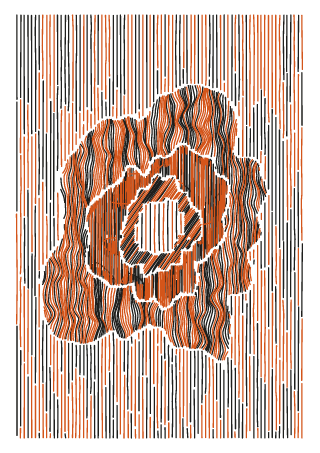
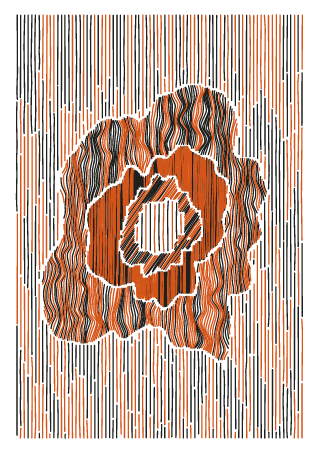
Lapidary: rework mottle as an interleaved-grating beat
The blob-based mottle read as cow print and looked nothing like the
noise-texture module it was meant to echo. Rebuilt on that module's
actual mechanism (generateOverlappedLines): a straight hatch family plus
a second family at the same pitch, phase-shifted half a gap, whose
perpendicular offset rides one low-frequency fBm field — lines weave
between stacked (paper shows through) and spread (even dark fill), giving
soft cloudy mottling with no discrete shapes. Patchiness is the beat
amplitude; blobOutlines and the iso-contour walls are gone.

Two registration fixes the beat depends on: the straight family drops
emitStroke's per-line angle jitter (a band-long line swings past a whole
pitch at the crossing, scrambling the interleave), and the second
family's offset is computed exactly — hatchPolygon scans from each
polygon's own min-extent and maps phase through 0.3+0.7p, so a naive
phase+0.5 never sat half a pitch off.

The patchiness property test now measures the stacked-pair share of
scanline gaps: crowding redistributes ink without changing ink-per-area,
so area metrics are blind to the beat.

Claude-Session: https://claude.ai/code/session_01BrHsHyx49yJZL9bnMQcf89

diff --git a/packages/core/src/lapidary/textures.ts b/packages/core/src/lapidary/textures.ts
@@ -1,6 +1,5 @@
 import { FlowLine, Point } from '../flow-lines.js';
 import { hatchPolygon } from '../hearts/heart.js';
-import { traceIsoContours } from '../iso-contours.js';
 import { emitStroke, Craft } from '../landscape/hatching.js';
 import { pointInPolygon } from '../lib/polyline.js';
 import { createNoise } from '../noise.js';
@@ -398,88 +397,88 @@ export function fillRegion(region: Region): RegionFill {
     }
 
     case 'mottle': {
-      // Two-tone blob pattern (the reference's leopard/wood-grain ring): a
-      // low-frequency field deals organic blobs, and a second half-pitch
-      // hatch family fills only their interiors — two committed density
-      // levels, where the patchy gate only removes ink below one. The gate
-      // and the wall raster share one noise instance so the drawn cell
-      // walls sit exactly on the density boundary. Per-blob pen splitting
-      // would need RegionFill to carry sub-tags through the carve — pens
-      // stay a downstream per-region/interleave decision.
+      // Interleaved-grating beat (the noise-texture module's mark,
+      // generateOverlappedLines): a straight family plus a second family at
+      // the SAME pitch, phase-shifted half a gap, whose perpendicular offset
+      // rides one low-frequency fBm field. Where the offset carries it onto
+      // the straight family the pair stacks and paper shows through; where
+      // it sits between, the fill closes to an even half-pitch grating —
+      // soft cloudy mottling from line crowding, no discrete shapes.
+      // Patchiness is the beat amplitude.
       const mottleNoise = createNoise(subSeed(t.seed, 2));
-      // Blob cells stay hand-sized even at tight pitch (the patchScale
-      // idiom, but larger — leopard patches, not flecks); patchiness is
-      // the blob coverage knob.
-      const blobScale = Math.max(40, t.spacing * 16);
-      const blobCut = 0.8 - t.patchiness * 1.3;
-      const inBlob = (x: number, y: number): boolean =>
-        mottleNoise.noise2D(x / blobScale, y / blobScale) > blobCut;
-
+      // The module's tuned ratios: cloud wavelength ~16 pitches, deviation
+      // swinging past a full pitch at the top of the knob so the beat
+      // crosses coincidence rather than only approaching it.
+      const lambda = Math.max(40, t.spacing * 16);
+      const amp = t.spacing * (0.35 + 0.9 * t.patchiness);
+      const minKeep = t.spacing * 0.8;
+      // The straight family keeps exact registration: emitStroke's per-line
+      // angle jitter swings a band-long line by more than the pitch at the
+      // crossing, which scrambles the interleave the beat plays against.
+      const straightCraft: Craft = { rng, taper: 0.45, jitter: 0, subStep: step };
       for (const run of hatchPolygon(poly, t.angleRad, t.spacing, t.phase)) {
-        emitTapered(run[0], run[1]);
+        if (ink.length >= REGION_LINE_CAP) break;
+        emitStroke(ink, run[0], run[1], '', straightCraft);
       }
-      // Infill lands exactly between the base lines. edgeBand 0 — unlike
-      // patchy, blob ink must not smear onto the silhouette seam.
-      const minLen = t.spacing * 1.5;
-      for (const run of hatchPolygon(poly, t.angleRad, t.spacing, (t.phase + 0.5) % 1)) {
-        gatedRun(run[0], run[1], Math.min(8, blobScale / 4), inBlob, minLen, 0, emitTapered);
+      // Second family: the wavy deform-then-clip idiom, displaced by the
+      // shared field so neighbouring lines crowd coherently.
+      let bx0 = Infinity;
+      let by0 = Infinity;
+      let bx1 = -Infinity;
+      let by1 = -Infinity;
+      for (const p of poly) {
+        if (p.x < bx0) bx0 = p.x;
+        if (p.y < by0) by0 = p.y;
+        if (p.x > bx1) bx1 = p.x;
+        if (p.y > by1) by1 = p.y;
       }
-
-      if (t.blobOutlines) {
-        let bx0 = Infinity;
-        let by0 = Infinity;
-        let bx1 = -Infinity;
-        let by1 = -Infinity;
-        for (const p of poly) {
-          if (p.x < bx0) bx0 = p.x;
-          if (p.y < by0) by0 = p.y;
-          if (p.x > bx1) bx1 = p.x;
-          if (p.y > by1) by1 = p.y;
-        }
-        const cellPx = Math.max(3, blobScale / 8);
-        const gw = Math.max(2, Math.ceil((bx1 - bx0) / cellPx) + 3);
-        const gh = Math.max(2, Math.ceil((by1 - by0) / cellPx) + 3);
-        const data = new Float32Array(gw * gh);
-        for (let gy = 0; gy < gh; gy++) {
-          for (let gx = 0; gx < gw; gx++) {
-            const x = bx0 + (gx - 1) * cellPx;
-            const y = by0 + (gy - 1) * cellPx;
-            data[gy * gw + gx] = mottleNoise.noise2D(x / blobScale, y / blobScale);
-          }
-        }
-        const minKeep = t.spacing * 4;
-        for (const loop of traceIsoContours({ width: gw, height: gh, data }, blobCut)) {
-          const pts = loop.map((p) => ({
-            x: bx0 + (p.x - 1) * cellPx,
-            y: by0 + (p.y - 1) * cellPx,
-          }));
-          const wholeLoop =
-            pts.length >= 4 &&
-            Math.hypot(pts[0].x - pts[pts.length - 1].x, pts[0].y - pts[pts.length - 1].y) < 1e-6;
-          let kept: Point[] = [];
-          let clipped = false;
-          const flush = (): void => {
-            if (kept.length >= 2) {
-              let l = 0;
-              for (let i = 1; i < kept.length; i++) {
-                l += Math.hypot(kept[i].x - kept[i - 1].x, kept[i].y - kept[i - 1].y);
-              }
-              // Confetti guard: wall fragments shorter than a few pitches
-              // read as stray ticks, not cell walls.
-              if (l >= minKeep) dashPolyline(kept, wholeLoop && !clipped);
+      const box: Point[] = [
+        { x: bx0, y: by0 },
+        { x: bx1, y: by0 },
+        { x: bx1, y: by1 },
+        { x: bx0, y: by1 },
+      ];
+      // Register the second family exactly half a pitch off the first:
+      // hatchPolygon scans from each polygon's own min-extent (and maps
+      // phase through 0.3+0.7·p), so the box family's raw offset against
+      // the poly family is arbitrary — fold the exact correction into the
+      // perpendicular displacement instead.
+      const scanNx = -Math.sin(t.angleRad);
+      const scanNy = Math.cos(t.angleRad);
+      const minOver = (pts: Point[]): number => {
+        let m = Infinity;
+        for (const p of pts) m = Math.min(m, p.x * scanNx + p.y * scanNy);
+        return m;
+      };
+      const firstA = minOver(poly) + t.spacing * (0.3 + 0.7 * t.phase);
+      const firstB = minOver(box) + t.spacing * 0.3;
+      const register =
+        ((((firstA + t.spacing / 2 - firstB) % t.spacing) + t.spacing) % t.spacing);
+      for (const run of hatchPolygon(box, t.angleRad, t.spacing, 0)) {
+        const base = densify(run[0], run[1], fineStep);
+        const dx = run[1].x - run[0].x;
+        const dy = run[1].y - run[0].y;
+        const len = Math.hypot(dx, dy) || 1;
+        const nx = -dy / len;
+        const ny = dx / len;
+        let kept: Point[] = [];
+        const flush = (): void => {
+          if (kept.length >= 2) {
+            let l = 0;
+            for (let i = 1; i < kept.length; i++) {
+              l += Math.hypot(kept[i].x - kept[i - 1].x, kept[i].y - kept[i - 1].y);
             }
-            kept = [];
-          };
-          for (const q of pts) {
-            if (pointInPolygon(poly, q.x, q.y)) {
-              kept.push(q);
-            } else {
-              clipped = true;
-              flush();
-            }
+            if (l >= minKeep) push(ink, kept);
           }
-          flush();
+          kept = [];
+        };
+        for (const p of base) {
+          const d = register + amp * mottleNoise.fbm(p.x / lambda, p.y / lambda, 2, 0.5, 2);
+          const q = { x: p.x + nx * d, y: p.y + ny * d };
+          if (pointInPolygon(poly, q.x, q.y)) kept.push(q);
+          else flush();
         }
+        flush();
       }
       break;
     }

diff --git a/packages/core/src/lapidary.test.ts b/packages/core/src/lapidary.test.ts
@@ -480,11 +480,11 @@ describe('generateLapidary', () => {
     }
   });
 
-  it('mottle lays a second density level over the plain hatch', () => {
-    // Pin both kinds to the same resolved pitch (mottle's 0.6 baseline vs
-    // hatch's 0.45): the blob infill and cell walls must add ink beyond the
-    // identical base family — the two-tone pattern is extra committed
-    // density, not the patchy gate's holes.
+  it('mottle lays a second line family over the plain hatch', () => {
+    // Pin both kinds to the same resolved pitch (mottle's 0.7 baseline vs
+    // hatch's 0.45): the beating second family must add ink beyond the
+    // identical straight family — mottle is crowding between two live
+    // gratings, not the patchy gate's holes.
     const totalLen = (textures: Parameters<typeof generateLapidary>[0]['textures']): number => {
       const r = generateLapidary({ ...BASE, textures, wobble: 0, optimize: false });
       let len = 0;
@@ -503,48 +503,48 @@ describe('generateLapidary', () => {
     expect(mottle).toBeGreaterThan(hatch * 1.1);
   });
 
-  it('mottle blob coverage rides the patchiness knob', () => {
-    const totalLen = (patchiness: number): number => {
+  it('mottle patchiness deepens the tonal clouds', () => {
+    // The beat amplitude is what patchiness buys: near zero the two
+    // families hold an almost even interleave, high amplitude slides one
+    // family across the other until lines stack. Crowding redistributes
+    // ink without changing ink-per-area, so the measurable signal is the
+    // share of near-zero gaps between successive scanline crossings
+    // (stacked pairs) — a full-page single mottle band keeps the lines
+    // exactly vertical.
+    const stackedShare = (patchiness: number): number => {
       const r = generateLapidary({
         ...BASE,
+        bands: 1,
         textures: ['mottle'],
         patchiness,
         wobble: 0,
         optimize: false,
       });
-      let len = 0;
-      for (const line of r.lines) {
-        for (let i = 1; i < line.points.length; i++) {
-          len += Math.hypot(
-            line.points[i].x - line.points[i - 1].x,
-            line.points[i].y - line.points[i - 1].y
-          );
+      const gaps: number[] = [];
+      for (const scanY of [120, 200, 280]) {
+        const xs: number[] = [];
+        for (const line of r.lines) {
+          for (let i = 1; i < line.points.length; i++) {
+            const a = line.points[i - 1];
+            const b = line.points[i];
+            if ((a.y - scanY) * (b.y - scanY) > 0) continue;
+            const f = Math.abs(b.y - a.y) < 1e-9 ? 0 : (scanY - a.y) / (b.y - a.y);
+            xs.push(a.x + (b.x - a.x) * f);
+          }
+        }
+        xs.sort((p, q) => p - q);
+        for (let i = 1; i < xs.length; i++) {
+          if (xs[i] > BASE.margin + 10 && xs[i] < BASE.width - BASE.margin - 10) {
+            gaps.push(xs[i] - xs[i - 1]);
+          }
         }
       }
-      return len;
+      const mean = gaps.reduce((a, b) => a + b, 0) / gaps.length;
+      return gaps.filter((g) => g < mean * 0.2).length / gaps.length;
     };
-    expect(totalLen(0.85)).toBeGreaterThan(totalLen(0.15) * 1.1);
-  });
-
-  it('blobOutlines: false drops the mottle cell walls', () => {
-    const base = { ...BASE, wobble: 0, optimize: false };
-    const walled = generateLapidary({ ...base, textures: [{ kind: 'mottle' as const }] });
-    const bare = generateLapidary({
-      ...base,
-      textures: [{ kind: 'mottle' as const, blobOutlines: false }],
-    });
-    expect(bare.lines.length).toBeGreaterThan(50);
-    expect(bare.lines.length).toBeLessThan(walled.lines.length);
-    for (const r of [walled, bare]) {
-      for (const line of r.lines) {
-        for (const p of line.points) {
-          expect(p.x).toBeGreaterThanOrEqual(0);
-          expect(p.x).toBeLessThanOrEqual(BASE.width);
-          expect(p.y).toBeGreaterThanOrEqual(0);
-          expect(p.y).toBeLessThanOrEqual(BASE.height);
-        }
-      }
-    }
+    const flat = stackedShare(0.05);
+    expect(flat).toBeLessThan(0.06);
+    expect(stackedShare(0.9)).toBeGreaterThan(flat * 2.5);
   });
 
   it('grain dashes stay short and comb along the band angle', () => {

diff --git a/packages/core/src/lapidary/layout.ts b/packages/core/src/lapidary/layout.ts
@@ -40,14 +40,10 @@ export interface BandTexture {
    *  undulation / grain bend). */
   waviness?: number;
   /** Per-band override of the global patchiness (patchy/cross hole amount;
-   *  mottle blob coverage). */
+   *  mottle grating-beat amplitude). */
   patchiness?: number;
   /** Per-band override of the sheet's shape language (agate/breccia). */
   shape?: LapidaryShape;
-  /** Trace the mottle blob boundaries as light dashed cell walls (mottle
-   *  only; default on — the walls are what turn two hatch densities into a
-   *  drawn pattern). */
-  blobOutlines?: boolean;
 }
 
 /** The tuning anchor: the A3 short edge at 3 px/mm. Feature sizes (seam
@@ -66,8 +62,6 @@ export interface ResolvedTexture {
   patchiness: number;
   /** Slides the hatch family so no two bands' lines register alike. */
   phase: number;
-  /** See `BandTexture.blobOutlines` (mottle only). */
-  blobOutlines: boolean;
   seed: number;
   /** sizingDim / TUNING_DIM — see `TUNING_DIM`. */
   featureScale: number;
@@ -141,10 +135,9 @@ const KIND_SPACING: Record<LapidaryTexture, number> = {
   patchy: 0.55,
   cross: 0.95,
   stipple: 1.3,
-  // Base family airier than patchy — the half-pitch blob infill doubles
-  // interior density to an effective 0.35, darker than plain hatch. The
-  // gap matters: at tight pitches both levels saturate and the two-tone
-  // drowns.
+  // Two same-pitch families: the fill swings between an effective 0.35
+  // (even interleave) and 0.7 (families stacked) as the beat crowds the
+  // lines — airier than patchy so the light clouds actually show paper.
   mottle: 0.7,
   grain: 0.7,
   blank: 1,
@@ -202,7 +195,6 @@ function resolveTexture(cfg: LayoutConfig, z: number, prevKind: LapidaryTexture 
     waviness: clamp(spec.waviness ?? cfg.waviness, 0, 1),
     patchiness: clamp(spec.patchiness ?? cfg.patchiness, 0, 1),
     phase: rng(),
-    blobOutlines: spec.blobOutlines ?? true,
     seed: subSeed(cfg.seed, 400 + z),
     featureScale: cfg.featureScale,
   };

diff --git a/packages/core/src/lapidary/index.ts b/packages/core/src/lapidary/index.ts
@@ -26,9 +26,9 @@ export const VEIN_LAYER = 'vein';
  * Lapidary — layered pattern artworks in the style of a cut and polished
  * stone cross-section: organic regions, each filled with its own line
  * texture (ruled lines, wavy combing, concentric contour banding, dense
- * hatch, mottled patchy hatch, shallow cross-hatch, stipple, two-tone
- * mottle blobs, flowing grain dashes, or held paper), separated by clean
- * reserved-paper seams the way stacked stencil layers hold off one
+ * hatch, mottled patchy hatch, shallow cross-hatch, stipple, cloudy
+ * grating-beat mottle, flowing grain dashes, or held paper), separated by
+ * clean reserved-paper seams the way stacked stencil layers hold off one
  * another.
  *
  * Three arrangements: `agate` nests concentric blob bands around a centre
@@ -115,9 +115,9 @@ export interface LapidaryOptions {
    *  contour bands drift off the silhouette they echo, and how hard grain
    *  dashes bend off the band angle */
   waviness?: number;
-  /** Patchy/cross hole amount and mottle blob coverage, 0..1 (default
-   *  0.55); cross keeps its second family legible by flooring its gate at
-   *  0.25 */
+  /** Patchy/cross hole amount and mottle grating-beat amplitude, 0..1
+   *  (default 0.55); cross keeps its second family legible by flooring its
+   *  gate at 0.25 */
   patchiness?: number;
 
   // ---- Pens ----

diff --git a/packages/cli/src/commands/lapidary.ts b/packages/cli/src/commands/lapidary.ts
@@ -84,7 +84,7 @@ export function registerLapidary(program: Command) {
     )
     .option(
       '--patchiness <number>',
-      'Patchy/cross hole amount and mottle blob coverage (0-1; cross floors its gate at 0.25)'
+      'Patchy/cross hole amount and mottle beat amplitude (0-1; cross floors its gate at 0.25)'
     )
     .option('--pens <number>', 'Pen count (1-4), strokes tagged ink-0..ink-3')
     .option('--pen-assignment <mode>', 'interleave | per-region')
